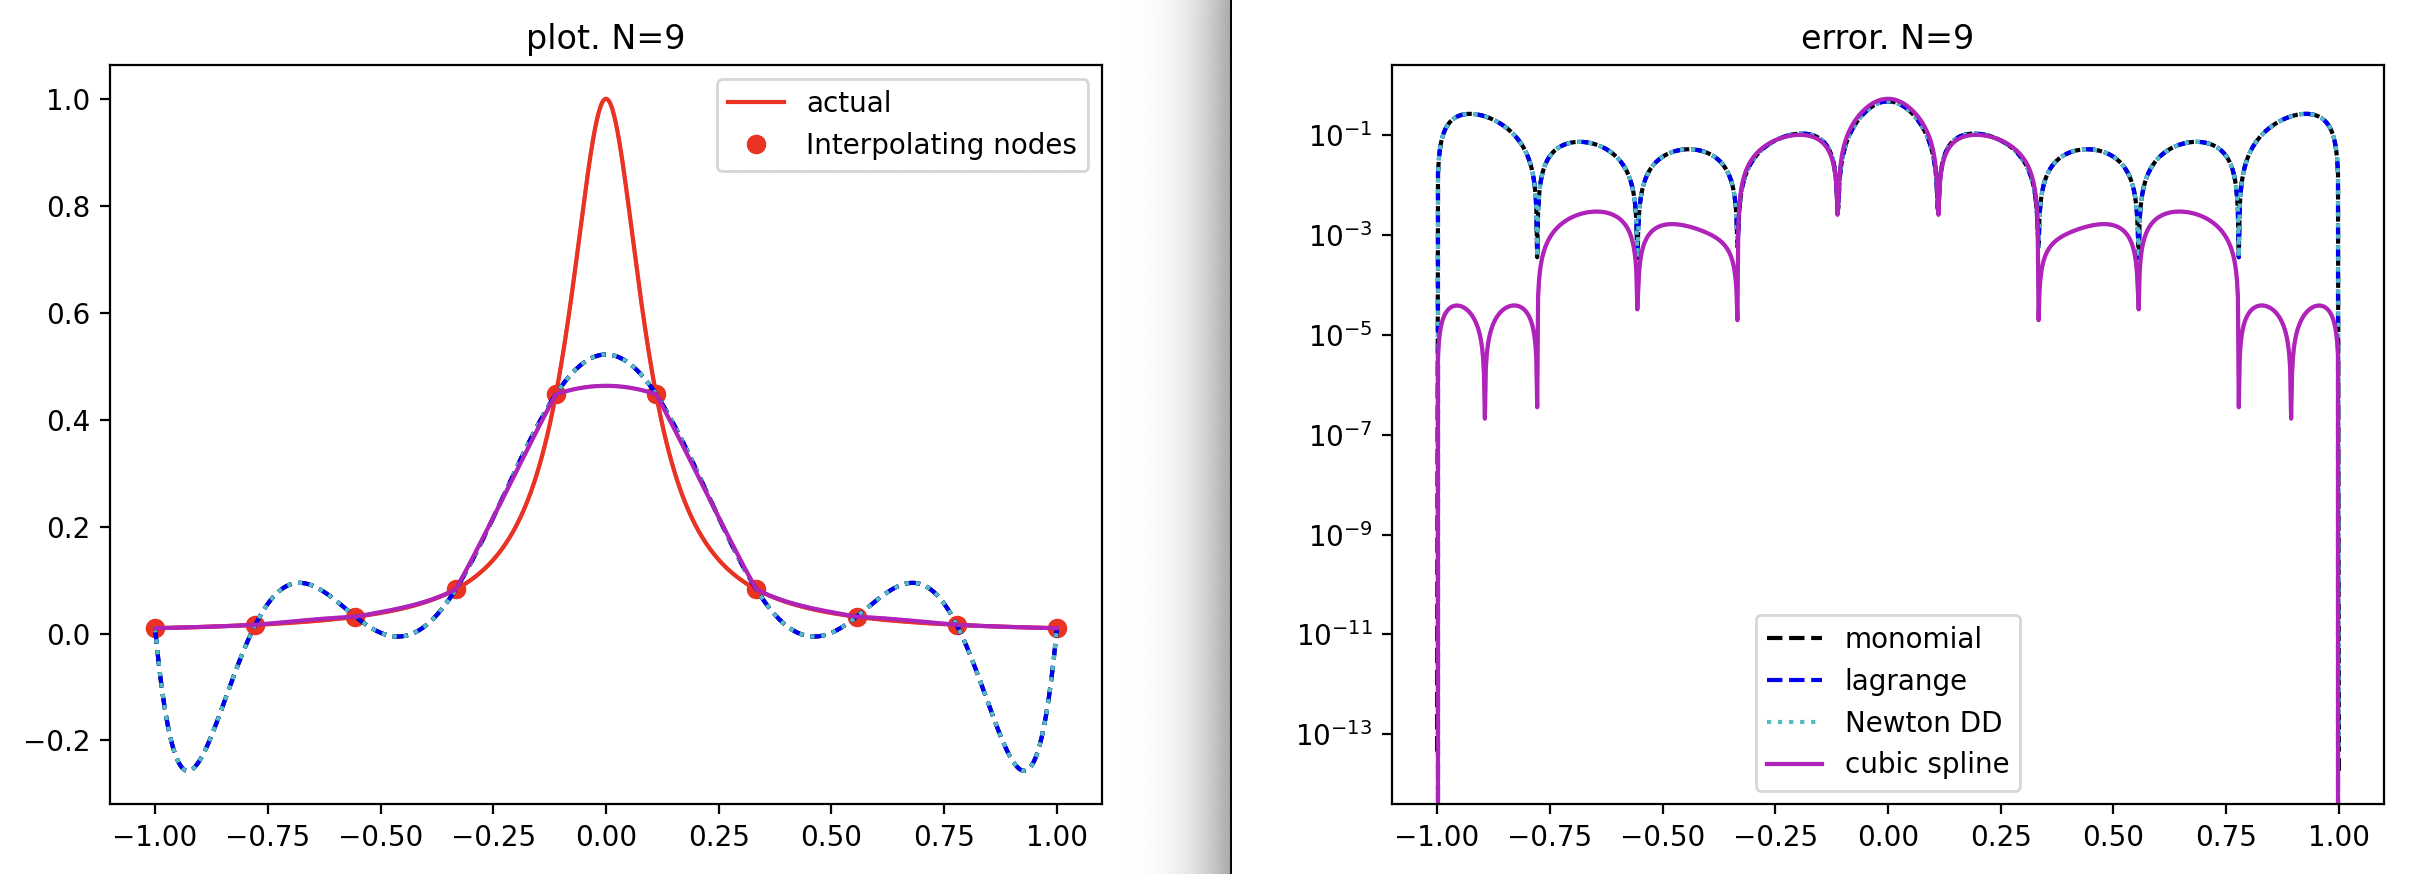
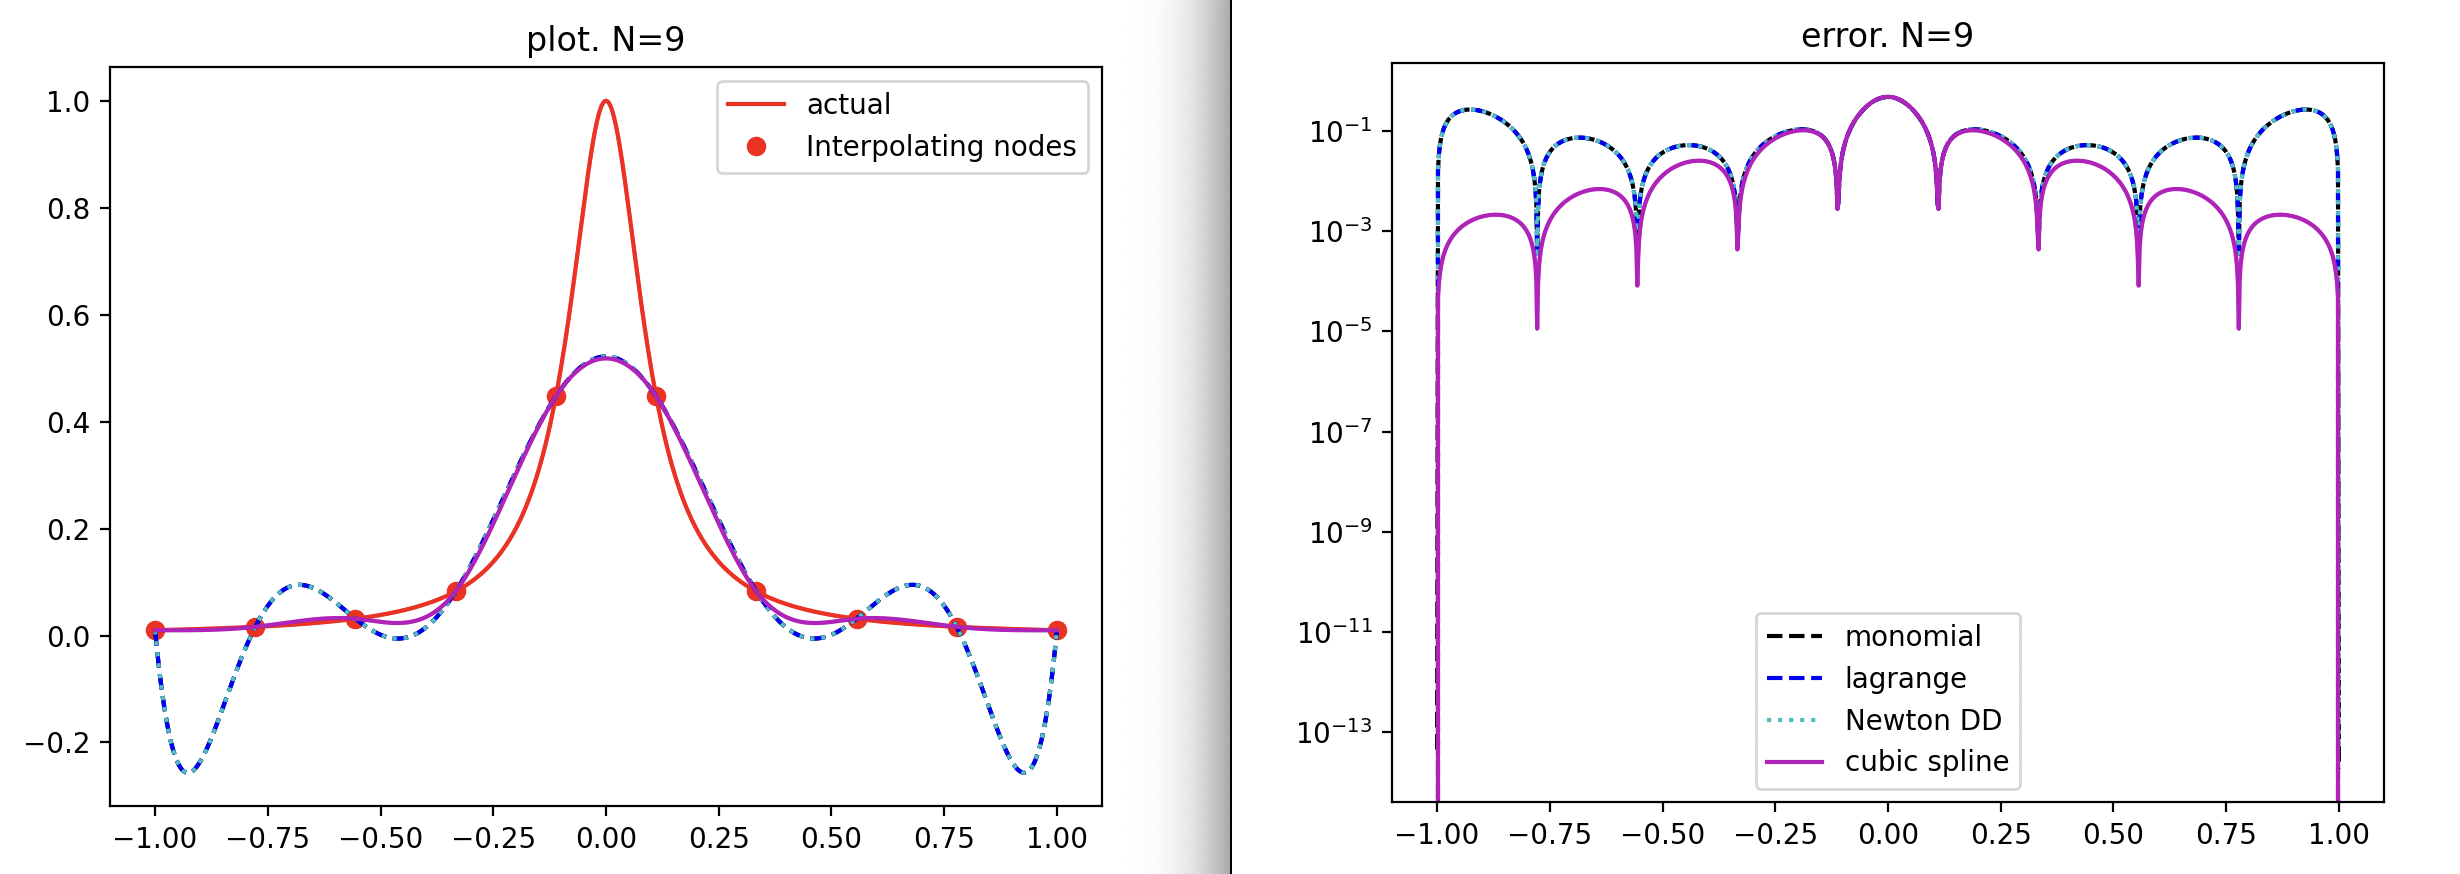
Fixed bug on cubic spline code. Output now correct

diff --git a/labs/lab8/exersize3.4.py b/labs/lab8/exersize3.4.py
@@ -110,25 +110,26 @@ def evalCubicSpline(xeval, Neval, a, b, f, Nint):
 
 
 def identifyM(x_int, y_int, N):
-    h = x_int[1] - x_int[0]
-    M_inner = np.zeros(N - 1)
-    A = np.zeros((N - 1, N - 1))
-    y = np.zeros(N - 1)
-    for i in range(N - 1):
-        A[i][i] = 1 / 3
-        if i != 0:
-            A[i][i - 1] = 1 / 12
-        if i != N - 2:
-            A[i][i + 1] = 1 / 12
+    # create right hand side + h vector
+    y = np.zeros(N + 1)
+    h = np.zeros(N)
+    for i in range(1, N):
+        hi = x_int[i] - x_int[i - 1]
+        hip = x_int[i + 1] - x_int[i]
+        y[i] = (y_int[i + 1] - y_int[i]) / hip - (y_int[i] - y_int[i - 1]) / hi
+        h[i - 1] = hi
+        h[i] = hip
 
-        y[i] = (y_int[i + 2] - 2 * y_int[i + 1] + y_int[i]) / (2 * h)
+    # create matrix
+    A = np.zeros((N + 1, N + 1))
+    A[0][0] = 1
+    for i in range(1, N):
+        A[i][i - 1] = h[i - 1] / 6
+        A[i][i] = (h[i] + h[i - 1]) / 3
+        A[i][i + 1] = h[i] / 6
+    A[N][N] = 1
 
-    M_inner = np.matmul(np.linalg.inv(A), y)
-    M = np.zeros(N + 1)
-    for i in range(N + 1):
-        if i == 0 or i == N:
-            continue
-        M[i] = M_inner[i - 1]
+    M = np.matmul(np.linalg.inv(A), y)
     return M
 
 
@@ -138,8 +139,7 @@ def cubicPolyEvaluator(Mi, Mi1, xi, xi1, fxi, fxi1):
     D = (fxi1 / hi) - (hi * Mi1 / 6)
 
     f = (
-        lambda x: ((xi1 - x) ** 3) * Mi / (6 * hi)
-        + ((x - xi) ** 3) * Mi1 / (6 * hi)
+        lambda x: (((xi1 - x) ** 3) * Mi + ((x - xi) ** 3) * Mi1) / (6 * hi)
         + C * (xi1 - x)
         + D * (x - xi)
     )

diff --git a/labs/lab8/exersize3.2.py b/labs/lab8/exersize3.2.py
@@ -59,7 +59,7 @@ def driver(n=3):
     plt.plot(xeval, y_eval_m, "k--")
     plt.plot(xeval, yeval_l, "b--")
     plt.plot(xeval, yeval_dd, "c:")
-    plt.plot(xeval, yevallin, "m-.")
+    plt.plot(xeval, yevallin, "m")
     plt.legend()
 
     plt.figure()
@@ -71,7 +71,7 @@ def driver(n=3):
     plt.semilogy(xeval, err_m, "k--", label="monomial")
     plt.semilogy(xeval, err_l, "b--", label="lagrange")
     plt.semilogy(xeval, err_dd, "c:", label="Newton DD")
-    plt.semilogy(xeval, err_lin, "m-.", label="linear spline")
+    plt.semilogy(xeval, err_lin, "m", label="linear spline")
     plt.legend()
     plt.show()
 
